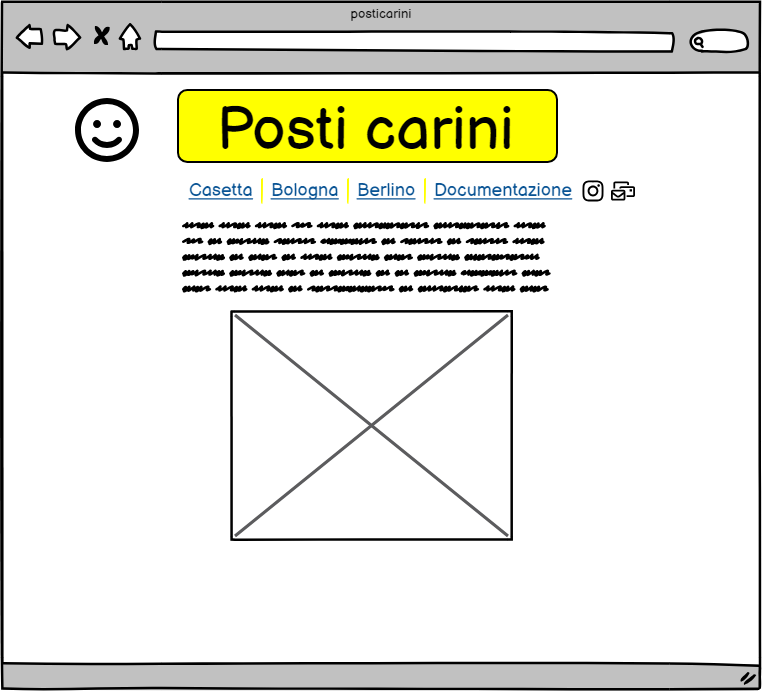
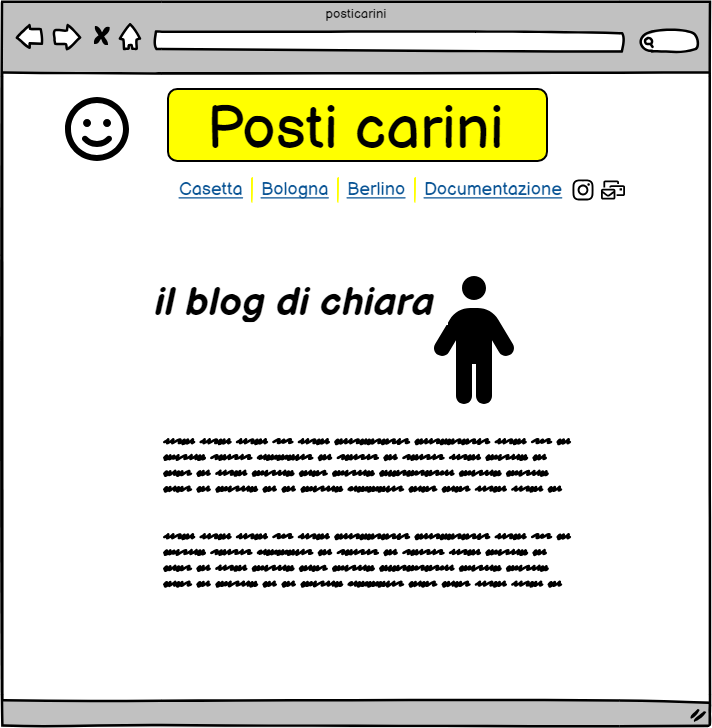
Add files via upload

diff --git a/documentazione.html b/documentazione.html
@@ -91,7 +91,8 @@
                     <p> Ispirandomi alla scelta di Rockit ho scelto solo tre colori principali: <b> giallo </b> (#ffff00), il <b> nero </b> e <b> grigio chiaro </b> (#F4F2F2). Più altre scale di grigio per il riquadro dei contatti e il testo del footer (#d3d3d3 & #808080). </p>
                     <p> Ho scelto di sostituire il grigio con il bianco per evitare di affaticare eccessivamente la vista (è più luminoso degli altri colori e tende a stancare se osservato per tempi prolungati) ma anche per legare l'estetica del sito a quella dei vecchi giornali (ripresa anche dal font così aggraziato.) </p>
                     <p> Il logo l'ho disegnato io e rappresenta una versione molto stilizzata del mio primo piano. </p>
-                    <p> Infine, ho arrototondato tutti gli spigoli, sia dei contorni che delle fotografie (anche il logo è circolare), creando una coerenza visiva che rendesse il sito più armonico e piacevole da guardare.</p>
+                    <p> Ho arrototondato tutti gli spigoli, sia dei contorni che delle fotografie (anche il logo è circolare), creando una coerenza visiva che rendesse il sito più armonico e piacevole da guardare.</p>
+                    <p> Infine, ho deciso di utilizzare anche foto mie per rafforzare la forte componente autobiografica del blog. In più è anche un modo per dare un'idea più realistica dei luoghi, una rappresentazione meno costruita delle foto professionali che si possono trovare su internet. </p>
             </section>
             <section>
                 <h3> Strumenti e linguaggi utilizzati </h3>
@@ -103,6 +104,7 @@
                         <li> <b> App note android:</b> disegno a mano del logo. </li>
                         <li> <b> Bootstrap: </b> stringhe di codice per responsiveness e divisione in colonna dei contenuti.</li>
                         <li> <b> Fontawesome: </b> per icone di Instagram e mail.</li>
+                        <li> <b> Canva: </b> per la produzione grafica. </li>
                     </ul>
             </section>
             <section> 
@@ -142,6 +144,13 @@
                     <figcaption class="caption"> Fonte: Studio e statistiche della Camera di Commercio Arezzo-Siena <i> "Trends, strategie e strumenti per creare contenuti efficaci sui social." </i></figcaption>
                     <p> L’idea è quella di proporre dei contenuti, foto o video, che nella descrizione riportino un estratto dell’articolo e che poi rimandando al sito per completarne la lettura. </p>
                     <p> Anche se meno impattante e sicuramente non ugualmente misurabile, parte della pubblicizzazione, soprattutto all’inizio, sarà fatta anche dal vivo, parlandone con amici e conoscenti, se ci si pensa è proprio a loro che io racconto le cose che scrivo, quindi perché non citarlo? </p>
+                    <h4> I contenuti che ho postato su Instagram </h4>
+                    <div class="row">
+                        <div class="col-md-3" > <img src="imgs/1.png" class="insta"> </div>
+                        <div class="col-md-3" > <img src="imgs/2.png" class="insta"> </div>
+                        <div class="col-md-3" > <img src="imgs/fotoinstagram.png" class="insta"> </div>
+                    </div>
+                    <img src="imgs/reel.png" id="reel">               
                 <h3> Valutazione dei risultati </h3>
             </section>
         </main>

diff --git a/index.html b/index.html
@@ -50,13 +50,13 @@
         </nav>
         </header>
         <main>
-            <section>
-              <h2> <i> Il blog di Chiara </i> </h2>
-              <p> Benvenut* nel mio blog Posti Carini :) </p>
-              <p> Io sono Chiara, ho ventun anni, vivo a Bologna e ho due grandi passioni: ascoltare musica live e dare opinioni, spesso, non richieste. </p>
-              <p> Così nasce questo piccolo sito, dalla voglia di condividere le mie idee e le esperienze che vivo, anche all’infuori della mia cerchia di amici, nella speranza di entrare in contatto con nuove persone e, perché no, anche di farvi conoscere qualche posto (carino) di cui magari non avete mai sentito parlare e che vi viene voglia di vedere. </p>
-              <p> Vi ringrazio per dedicarmi il vostro tempo, spero che vi piacerà leggere quello che ho scritto e, se vi andasse di dirmi cosa ne pensate mi farebbe molto piacere! (Potete farlo o su Instagram <a href="https://instagram.com/posticarinii?igshid=MzNlNGNkZWQ4Mg==" class="locali"> @posticarinii </a> o per mail  <a href="mailto:posticarinii@gmail.com" class="locali"> posticarinii@gmail.com </a>) </p>
-            </section>
+            <img src="imgs/homepage.png" id="homepage">
+          <section>
+                <p> Benvenut* nel mio blog Posti Carini :) </p>
+                <p> Io sono Chiara, ho ventun anni, vivo a Bologna e ho due grandi passioni: ascoltare musica live e dare opinioni, spesso, non richieste. </p>
+                <p> Così nasce questo piccolo sito, dalla voglia di condividere le mie idee e le esperienze che vivo, anche all’infuori della mia cerchia di amici, nella speranza di entrare in contatto con nuove persone e, perché no, anche di farvi conoscere qualche posto (carino) di cui magari non avete mai sentito parlare e che vi viene voglia di vedere. </p>
+                <p> Vi ringrazio per dedicarmi il vostro tempo, spero che vi piacerà leggere quello che ho scritto e, se vi andasse di dirmi cosa ne pensate mi farebbe molto piacere! (Potete farlo o su Instagram <a href="https://instagram.com/posticarinii?igshid=MzNlNGNkZWQ4Mg==" class="locali"> @posticarinii </a> o per mail  <a href="mailto:posticarinii@gmail.com" class="locali"> posticarinii@gmail.com </a>) </p>
+            </section>       
         </main>
           <footer>
           </footer>

diff --git a/css/style.css b/css/style.css
@@ -49,7 +49,7 @@ h1{
 .pagina {
     font-size: 20px;
     font-weight: bold;
-    background-color: yellow;
+    background-color: #ffff00;
     border-radius: 70px; 
     margin-top: 0%;
     color: black;
@@ -102,7 +102,7 @@ body{
     font-weight: 400;
     margin: 0%; 
     padding: 0%; 
-    background-color:rgb(244, 242, 242);
+    background-color:#f4f2f2;
     font-family: 'Lora', serif;
     font-family: 'Playfair Display', serif;
 }
@@ -173,8 +173,17 @@ body{
     border-radius: 10%;
 }
 
+#homepage {
+    width: 55%;
+}
+
 #kintergarden2{
     width: 90%;
+}
+
+#reel {
+    border-radius: 5%;
+    width: 70%;
 }
 
 .colberlino {
@@ -214,7 +223,7 @@ section {
 .locali:hover{
     transition: 0.5s;
     text-decoration: underline;
-    text-decoration-color: yellow;
+    text-decoration-color: #ffff00;
     text-decoration-thickness: 20%;
 }
 
@@ -224,7 +233,7 @@ section {
 
 footer {
     background-color: black;
-    color: gray; 
+    color: #808080; 
     text-align: center;
     font-weight: lighter;
     font-size: 5%;
@@ -262,6 +271,7 @@ footer {
 
 .statistiche{
     width: 95%;
+    border-radius: 5%;
 }
 
 :hover#logo {
@@ -270,6 +280,11 @@ footer {
 
 .col-sm-12 {
     max-width: 750px;
+}
+
+.insta {
+    width: 94%;
+    border-radius: 5%;
 }
 
 @media only screen and (max-width: 768px) {
@@ -303,5 +318,13 @@ footer {
     
     .dropdown-menu{
         right: 30%;
+    }
+
+    #homepage{
+        width: 100%;
+    }
+
+    #reel {
+        width: 95%;
     }
   }

diff --git a/berlino.html b/berlino.html
@@ -9,14 +9,6 @@
         <script src="https://kit.fontawesome.com/587cca7148.js" crossorigin="anonymous"></script>
         <meta name="viewport" content="width=device-width, initial-scale=1.0">
         <link rel="stylesheet" type="text/css" href="style.css">    </head>
-        <!-- Google tag (gtag.js) -->
-        <script async src="https://www.googletagmanager.com/gtag/js?id=G-N8HP9WEGYE"></script>
-        <script>
-          window.dataLayer = window.dataLayer || [];
-          function gtag(){dataLayer.push(arguments);}
-          gtag('js', new Date());
-          gtag('config', 'G-N8HP9WEGYE');
-</script>
     <body> 
         <header> 
             <div class="row2"> 
